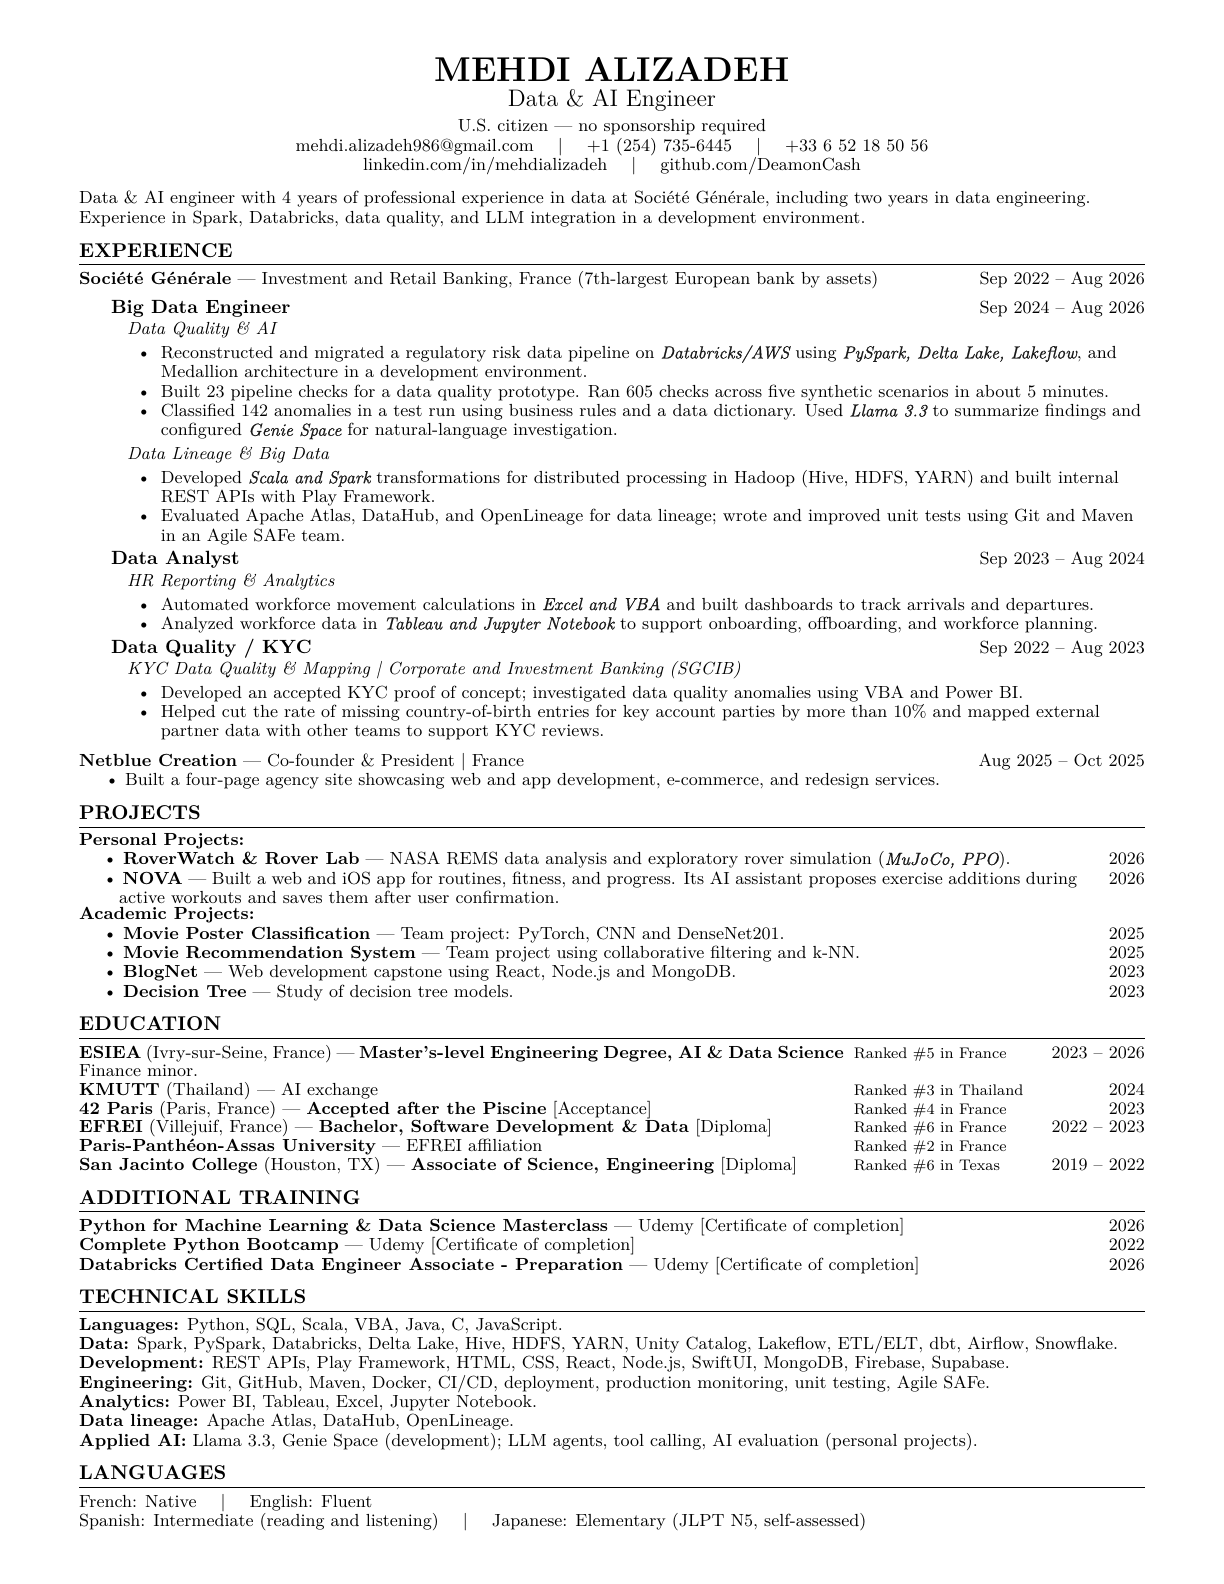
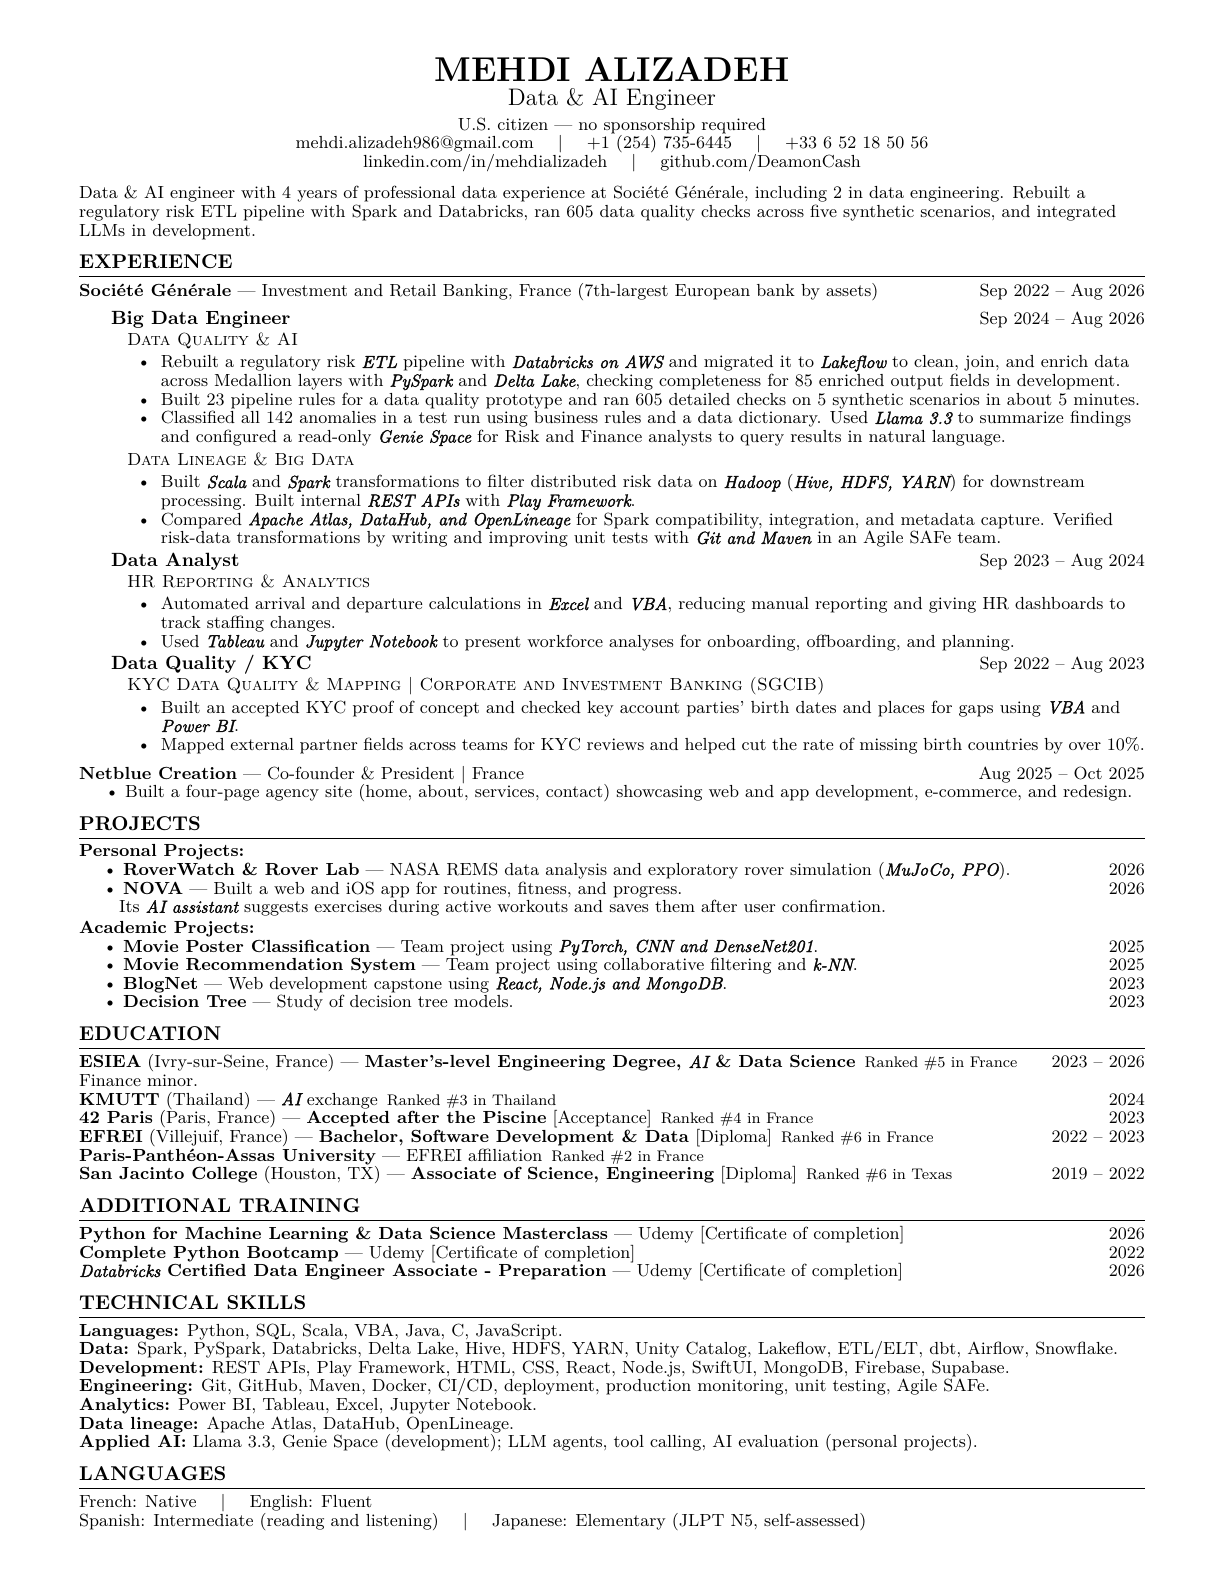
Publish the final resume and clarify U.S. work authorization

Changed region(s): [[0.0621, 0.0619, 0.9314, 0.959]]

diff --git a/index.html b/index.html
@@ -1,7 +1,7 @@
 <!doctype html><html lang="en"><head><meta charset="utf-8"><meta name="viewport" content="width=device-width,initial-scale=1"><meta name="description" content="Mehdi Alizadeh, Data & AI Engineer — portfolio preview."><title>Mehdi Alizadeh — Data & AI Engineer</title><link rel="stylesheet" href="style.css?v=portraits-20261123"><style>.experience-projects{margin:24px 0 12px;max-width:850px}.experience-projects h4{font:12px Arial,sans-serif;text-transform:uppercase;letter-spacing:.12em;color:var(--blue);margin:0 0 12px}.experience-projects details{border-top:1px solid #85828a}.experience-projects details:last-child{border-bottom:1px solid #85828a}.experience-projects details summary{display:flex;justify-content:space-between;align-items:center;gap:16px;padding:14px 0;cursor:pointer;list-style:none;font-size:clamp(17px,1.4vw,21px)}.experience-projects details summary::-webkit-details-marker{display:none}.experience-projects details summary span{color:var(--blue)}.experience-projects details[open] summary span{transform:rotate(45deg)}.experience-project-body{padding:0 0 18px}.experience-project-body p{font-size:16px;line-height:1.55;margin:4px 0 10px}.experience-project-body small{font:12px/1.5 Arial,sans-serif;opacity:.72}</style><link rel="stylesheet" href="portfolio-assistant.css">
 </head><body>
 <nav class="section-rail" aria-label="Section navigation"><a href="#projects"><span class="rail-dot"></span><span>Projects</span></a><a href="#experience"><span class="rail-dot"></span><span>Experience</span></a><a href="#education"><span class="rail-dot"></span><span>Education</span></a><a href="#training"><span class="rail-dot"></span><span>Training</span></a><a href="#resume"><span class="rail-dot"></span><span>Resume</span></a><a href="#contact"><span class="rail-dot"></span><span>Contact</span></a></nav><div class="page"><header class="header"><a class="identity" href="#top"><span class="blue-line"></span><span><strong>Mehdi Alizadeh</strong><small>Data &amp; AI Engineer</small></span></a><nav aria-label="Main navigation"><a href="#experience">Experience</a><a href="#projects">Projects</a><a href="#education">Education</a><a href="#training">Training</a><a href="#resume">Resume</a><a class="contact-trigger" href="#contact" aria-haspopup="dialog" aria-controls="contact-dialog">Contact</a></nav><button class="theme-toggle" type="button" aria-label="Switch to dark mode" aria-pressed="false"><span aria-hidden="true">☾</span><span class="theme-label">Dark</span></button></header>
-<main id="top"><section class="hero" aria-labelledby="hero-title"><div class="hero-copy"><p class="intro">Hi, I’m Mehdi.</p><h1 id="hero-title">Engineering<br>useful intelligence<span>.</span></h1><p class="keywords"><span class="word" aria-label="Data"><span class="letter-hit" aria-hidden="true"><span class="letter">D</span></span><span class="letter-hit" aria-hidden="true"><span class="letter">a</span></span><span class="letter-hit" aria-hidden="true"><span class="letter">t</span></span><span class="letter-hit" aria-hidden="true"><span class="letter">a</span></span></span> <i aria-hidden="true">/</i> <span class="word" aria-label="Software"><span class="letter-hit" aria-hidden="true"><span class="letter">S</span></span><span class="letter-hit" aria-hidden="true"><span class="letter">o</span></span><span class="letter-hit" aria-hidden="true"><span class="letter">f</span></span><span class="letter-hit" aria-hidden="true"><span class="letter">t</span></span><span class="letter-hit" aria-hidden="true"><span class="letter">w</span></span><span class="letter-hit" aria-hidden="true"><span class="letter">a</span></span><span class="letter-hit" aria-hidden="true"><span class="letter">r</span></span><span class="letter-hit" aria-hidden="true"><span class="letter">e</span></span></span> <i aria-hidden="true">/</i> <span class="word" aria-label="AI"><span class="letter-hit" aria-hidden="true"><span class="letter">A</span></span><span class="letter-hit" aria-hidden="true"><span class="letter">I</span></span></span></p><div class="short-line"></div><p class="tagline">Data and software engineering for real-world impact.<br><small>U.S. citizen · No sponsorship required</small></p><div class="hero-actions"><a class="hero-social" href="https://www.linkedin.com/in/mehdializadeh/">LinkedIn ↗</a><a class="hero-social" href="https://github.com/DeamonCash">GitHub ↗</a><a class="hero-social" href="#resume">Resume ↓</a><a class="hero-social" href="mailto:mehdi.alizadeh986@gmail.com?subject=Hello%20Mehdi">Email me ↗</a></div></div><div class="visual"><a class="meet contact-trigger" href="#contact" aria-haspopup="dialog" aria-controls="contact-dialog">Meet Mehdi <span>→</span></a><img class="planet" src="assets/planet.png" alt=""><img class="portrait" src="assets/portrait-mehdi-accueil.webp" alt="AI-assisted portrait of Mehdi working at his MacBook"></div></section>
+<main id="top"><section class="hero" aria-labelledby="hero-title"><div class="hero-copy"><p class="intro">Hi, I’m Mehdi.</p><h1 id="hero-title">Engineering<br>useful intelligence<span>.</span></h1><p class="keywords"><span class="word" aria-label="Data"><span class="letter-hit" aria-hidden="true"><span class="letter">D</span></span><span class="letter-hit" aria-hidden="true"><span class="letter">a</span></span><span class="letter-hit" aria-hidden="true"><span class="letter">t</span></span><span class="letter-hit" aria-hidden="true"><span class="letter">a</span></span></span> <i aria-hidden="true">/</i> <span class="word" aria-label="Software"><span class="letter-hit" aria-hidden="true"><span class="letter">S</span></span><span class="letter-hit" aria-hidden="true"><span class="letter">o</span></span><span class="letter-hit" aria-hidden="true"><span class="letter">f</span></span><span class="letter-hit" aria-hidden="true"><span class="letter">t</span></span><span class="letter-hit" aria-hidden="true"><span class="letter">w</span></span><span class="letter-hit" aria-hidden="true"><span class="letter">a</span></span><span class="letter-hit" aria-hidden="true"><span class="letter">r</span></span><span class="letter-hit" aria-hidden="true"><span class="letter">e</span></span></span> <i aria-hidden="true">/</i> <span class="word" aria-label="AI"><span class="letter-hit" aria-hidden="true"><span class="letter">A</span></span><span class="letter-hit" aria-hidden="true"><span class="letter">I</span></span></span></p><div class="short-line"></div><p class="tagline">Data and software engineering for real-world impact.<br><small>U.S. citizen · Authorized to work in the U.S. without sponsorship</small></p><div class="hero-actions"><a class="hero-social" href="https://www.linkedin.com/in/mehdializadeh/">LinkedIn ↗</a><a class="hero-social" href="https://github.com/DeamonCash">GitHub ↗</a><a class="hero-social" href="#resume">Resume ↓</a><a class="hero-social" href="mailto:mehdi.alizadeh986@gmail.com?subject=Hello%20Mehdi">Email me ↗</a></div></div><div class="visual"><a class="meet contact-trigger" href="#contact" aria-haspopup="dialog" aria-controls="contact-dialog">Meet Mehdi <span>→</span></a><img class="planet" src="assets/planet.png" alt=""><img class="portrait" src="assets/portrait-mehdi-accueil.webp" alt="AI-assisted portrait of Mehdi working at his MacBook"></div></section>
 <section id="projects" class="section"><div class="short-line"></div><h2>Projects</h2>
 <div class="project-group" aria-labelledby="personal-projects">
 <h3 id="personal-projects">Personal Projects</h3>
@@ -23,7 +23,7 @@
 <article class="project"><div class="project-row"><span class="row-label"><strong>Decision Tree</strong><small>Study of decision tree models</small></span><time class="project-year" datetime="2023">2023</time></div></article>
 </div>
 </section>
-<section class="section" id="experience"><div class="short-line"></div><h2>Experience</h2><div class="employer-heading"><h3>Société Générale</h3><p>France · 2022–2026</p></div><div class="experience-list"><details><summary><span>2024 — 2026</span><strong>Big Data Engineer</strong><b>+</b></summary><div class="exp-body"><p>Reconstructed and migrated a regulatory risk pipeline in a development environment using Databricks, AWS, PySpark, Delta Lake, Lakeflow and Medallion architecture.</p><p>Built 23 pipeline checks for a data quality prototype and ran 605 checks across five synthetic scenarios in about five minutes. Classified 142 test anomalies using business rules and a data dictionary. Used Llama 3.3 to summarize findings and configured Genie Space for natural-language investigation.</p><p>Developed Scala and Spark transformations for distributed processing in Hadoop (Hive, HDFS, YARN) and built internal REST APIs with Play Framework. Evaluated Apache Atlas, DataHub and OpenLineage, and improved unit tests using Git and Maven.</p><div class="experience-projects"><h4>Selected projects</h4><details><summary>2026 · Data Quality &amp; AI prototype <span>+</span></summary><div class="experience-project-body"><p>Reconstructed a regulatory risk data pipeline in a development environment and built automated data-quality checks with Databricks, PySpark and Delta Lake.</p><p>Ran 605 checks across five synthetic scenarios in about five minutes. Classified 142 test anomalies and made findings easier to explore through Llama 3.3 summaries and Genie Space.</p><small>Public summary based on the 2026 engineering presentation · Test environment</small></div></details><details><summary>2025 · Data Lineage &amp; Big Data Engineering <span>+</span></summary><div class="experience-project-body"><p>Studied data-lineage approaches, evaluated tools, and contributed improvements to distributed data workflows and internal APIs.</p><p>Worked with Scala, Spark, Hive, HDFS, Git and Maven, using code reviews and unit tests.</p><small>Public summary based on the 2025 engineering presentation</small></div></details></div></div></details><details><summary><span>2023 — 2024</span><strong>Data Analyst — HR</strong><b>+</b></summary><div class="exp-body"><p>Automated workforce movement calculations in Excel and VBA and built dashboards to track arrivals and departures. Analyzed workforce data in Tableau and Jupyter Notebook to support onboarding, offboarding, and workforce planning.</p><div class="experience-projects"><h4>Selected project</h4><details><summary>2023–2024 · HR Reporting &amp; Data Analysis <span>+</span></summary><div class="experience-project-body"><p>Replaced manual workforce movement calculations with Excel and VBA automation and created dashboards to track employee arrivals and departures.</p><small>Public summary based on the HR project presentation</small></div></details></div></div></details><details><summary><span>2022 — 2023</span><strong>Data Quality / KYC</strong><b>+</b></summary><div class="exp-body"><p>Developed an accepted KYC proof of concept and investigated data quality anomalies using VBA and Power BI. Helped cut the rate of missing country-of-birth entries for key account parties by more than 10% and mapped external partner data with other teams to support KYC reviews.</p><div class="experience-projects"><h4>Selected project</h4><details><summary>2022–2023 · KYC Data Quality &amp; Mapping <span>+</span></summary><div class="experience-project-body"><p>Developed an accepted KYC proof of concept, investigated data-quality anomalies, and mapped external partner data to support regulatory requirements.</p><p>Used VBA and Power BI in coordination with affected teams.</p><small>Public summary based on the 2023 academic presentation</small></div></details></div></div></details></div><div class="employer-heading"><h3>Netblue Creation</h3><p>French agency · 2025</p></div><div class="experience-list"><details><summary><span>2025</span><strong>Co-founder &amp; President</strong><b>+</b></summary><div class="exp-body"><p>Built a four-page agency site showcasing web and app development, e-commerce, and redesign services.</p></div></details></div></section>
+<section class="section" id="experience"><div class="short-line"></div><h2>Experience</h2><div class="employer-heading"><h3>Société Générale</h3><p>France · 2022–2026</p></div><div class="experience-list"><details><summary><span>2024 — 2026</span><strong>Big Data Engineer</strong><b>+</b></summary><div class="exp-body"><p>Rebuilt a regulatory risk ETL pipeline with Databricks on AWS and migrated it to Lakeflow. Used PySpark and Delta Lake to clean, join, and enrich data across Medallion layers and checked completeness for 85 enriched fields in development.</p><p>Built 23 pipeline checks for a data quality prototype and ran 605 checks across five synthetic scenarios in about five minutes. Classified 142 test anomalies using business rules and a data dictionary. Used Llama 3.3 to summarize findings and configured Genie Space for natural-language investigation.</p><p>Built Scala and Spark transformations to filter distributed risk data on Hadoop (Hive, HDFS, YARN) and developed internal REST APIs with Play Framework. Compared Apache Atlas, DataHub and OpenLineage for Spark compatibility, integration, and metadata capture. Verified transformations with unit tests using Git and Maven.</p><div class="experience-projects"><h4>Selected projects</h4><details><summary>2026 · Data Quality &amp; AI prototype <span>+</span></summary><div class="experience-project-body"><p>Reconstructed a regulatory risk data pipeline in a development environment and built automated data-quality checks with Databricks, PySpark and Delta Lake.</p><p>Ran 605 checks across five synthetic scenarios in about five minutes. Classified 142 test anomalies and made findings easier to explore through Llama 3.3 summaries and Genie Space.</p><small>Public summary based on the 2026 engineering presentation · Test environment</small></div></details><details><summary>2025 · Data Lineage &amp; Big Data Engineering <span>+</span></summary><div class="experience-project-body"><p>Studied data-lineage approaches, evaluated tools, and contributed improvements to distributed data workflows and internal APIs.</p><p>Worked with Scala, Spark, Hive, HDFS, Git and Maven, using code reviews and unit tests.</p><small>Public summary based on the 2025 engineering presentation</small></div></details></div></div></details><details><summary><span>2023 — 2024</span><strong>Data Analyst — HR</strong><b>+</b></summary><div class="exp-body"><p>Automated arrival and departure calculations in Excel and VBA, reducing manual reporting and giving HR dashboards to track staffing changes. Used Tableau and Jupyter Notebook to present workforce analyses for onboarding, offboarding, and planning.</p><div class="experience-projects"><h4>Selected project</h4><details><summary>2023–2024 · HR Reporting &amp; Data Analysis <span>+</span></summary><div class="experience-project-body"><p>Replaced manual workforce movement calculations with Excel and VBA automation and created dashboards to track employee arrivals and departures.</p><small>Public summary based on the HR project presentation</small></div></details></div></div></details><details><summary><span>2022 — 2023</span><strong>Data Quality / KYC</strong><b>+</b></summary><div class="exp-body"><p>Developed an accepted KYC proof of concept and investigated data quality anomalies using VBA and Power BI. Helped cut the rate of missing country-of-birth entries for key account parties by more than 10% and mapped external partner data with other teams to support KYC reviews.</p><div class="experience-projects"><h4>Selected project</h4><details><summary>2022–2023 · KYC Data Quality &amp; Mapping <span>+</span></summary><div class="experience-project-body"><p>Developed an accepted KYC proof of concept, investigated data-quality anomalies, and mapped external partner data to support regulatory requirements.</p><p>Used VBA and Power BI in coordination with affected teams.</p><small>Public summary based on the 2023 academic presentation</small></div></details></div></div></details></div><div class="employer-heading"><h3>Netblue Creation</h3><p>French agency · 2025</p></div><div class="experience-list"><details><summary><span>2025</span><strong>Co-founder &amp; President</strong><b>+</b></summary><div class="exp-body"><p>Built a four-page agency site showcasing web and app development, e-commerce, and redesign services.</p></div></details></div></section>
 <section class="section" id="education"><div class="short-line"></div><h2>Education</h2><div class="education-list"><div><span>2023 — 2026</span><p><strong>ESIEA (Ivry-sur-Seine, France)</strong><br>Master’s-level Engineering Degree, AI &amp; Data Science <a class="education-diploma-link" href="#esiea-attestation">[Attestation]</a> <a class="education-rank" href="https://etudiant.lefigaro.fr/etudes/ecoles-ingenieurs/classement-informatique/" title="Le Figaro Étudiant, computer science engineering schools">Ranked #5 in France</a><br><span class="education-detail">Finance minor.<br><strong>KMUTT</strong> (Thailand) · AI exchange, 2024 <a class="education-diploma-link" href="#kmutt-certificate">[Certificate]</a> <a class="education-rank" href="https://www.timeshighereducation.com/student/where-to-study/study-in-thailand?page=1" title="Times Higher Education, universities in Thailand">Ranked #3 in Thailand</a></span></p></div><div><span>2023</span><p><strong>42 Paris (Paris, France)</strong><br>Accepted after the intensive coding selection program (Piscine) <a class="education-diploma-link" href="#42-acceptance">[Acceptance]</a> <a class="education-rank" href="https://etudiant.lefigaro.fr/etudes/digital-com-journalisme/classement-digital-numerique/" title="Le Figaro Étudiant, digital schools">Ranked #4 in France</a></p></div><div><span>2022 — 2023</span><p><strong>EFREI (Villejuif, France)</strong><br>Bachelor, Software Development &amp; Data <a class="education-diploma-link" href="#efrei-diploma">[Diploma]</a> <a class="education-diploma-link" href="#efrei-rncp">[Professional title]</a> <a class="education-rank" href="https://etudiant.lefigaro.fr/etudes/ecoles-ingenieurs/classement-informatique/" title="Le Figaro Étudiant, computer science engineering schools">Ranked #6 in France</a><br><strong>Paris-Panthéon-Assas University</strong> · EFREI affiliation <a class="education-rank" href="https://static1.squarespace.com/static/650c5431bd58ea79ffc9df7b/t/699db5fa2cd93515fe692195/1771943418128/CP_Classementlicences.pdf" title="L’Étudiant 2026, bachelor’s degree completion in France">Ranked #2 in France</a></p></div><div><span>2019 — 2022</span><p><strong>San Jacinto College (Houston, TX)</strong><br>Associate of Science, Engineering <a class="education-diploma-link" href="#san-jacinto-diploma">[Diploma]</a> <a class="education-rank" href="https://academicinfluence.com/rankings/by-state/texas/best-community-colleges" title="Academic Influence, community colleges in Texas">Ranked #6 in Texas</a></p></div></div>
   <article class="credential" id="42-acceptance" tabindex="-1" aria-labelledby="42-acceptance-title">
     <h3 id="42-acceptance-title">42 Paris admission email</h3>
@@ -121,13 +121,13 @@
       <h2 id="resume-title">Resume</h2>
       <p class="resume-name">Mehdi Alizadeh</p>
       <p class="resume-meta">Data &amp; AI Engineer<br>1 page</p>
-      <a class="project-repo" href="resume.pdf?v=experience-20261127" download="Mehdi-Alizadeh-Resume.pdf">Download PDF <span aria-hidden="true">↓</span></a>
+      <a class="project-repo" href="resume.pdf?v=resume-final-20261127" download="Mehdi-Alizadeh-Resume.pdf">Download PDF <span aria-hidden="true">↓</span></a>
     </div>
     <figure class="resume-preview">
       <button type="button" class="resume-expand" aria-label="Enlarge resume preview" aria-haspopup="dialog" aria-controls="resume-viewer" hidden>
         <svg width="18" height="18" viewBox="0 0 24 24" fill="none" stroke="currentColor" stroke-width="1.8" aria-hidden="true"><path d="M8 3H3v5m13-5h5v5m0 8v5h-5M3 16v5h5"/></svg>
       </button>
-      <img src="assets/resume-preview.webp?v=experience-20261127" alt="Preview of Mehdi Alizadeh’s resume" width="1224" height="1584" loading="lazy">
+      <img src="assets/resume-preview.webp?v=resume-final-20261127" alt="Preview of Mehdi Alizadeh’s resume" width="1224" height="1584" loading="lazy">
     </figure>
   </div>
   <dialog class="resume-viewer" id="resume-viewer" aria-labelledby="resume-viewer-title">
@@ -136,7 +136,7 @@
       <form method="dialog"><button type="submit" class="resume-close" aria-label="Close resume preview" autofocus>×</button></form>
     </div>
     <div class="resume-viewer-page">
-      <img src="assets/resume-preview.webp?v=experience-20261127" alt="Enlarged preview of Mehdi Alizadeh’s resume" width="1224" height="1584" loading="lazy">
+      <img src="assets/resume-preview.webp?v=resume-final-20261127" alt="Enlarged preview of Mehdi Alizadeh’s resume" width="1224" height="1584" loading="lazy">
       <a class="resume-credential-link" href="#42-acceptance" aria-label="View 42 Paris acceptance" style="left:45.155%;top:70.086%;width:8.099%;height:1.107%"></a>
       <a class="resume-credential-link" href="#efrei-diploma" aria-label="View EFREI diploma" style="left:56.804%;top:71.268%;width:6.278%;height:1.107%"></a>
       <a class="resume-credential-link" href="#san-jacinto-diploma" aria-label="View San Jacinto College diploma" style="left:58.853%;top:73.621%;width:6.278%;height:1.107%"></a>
